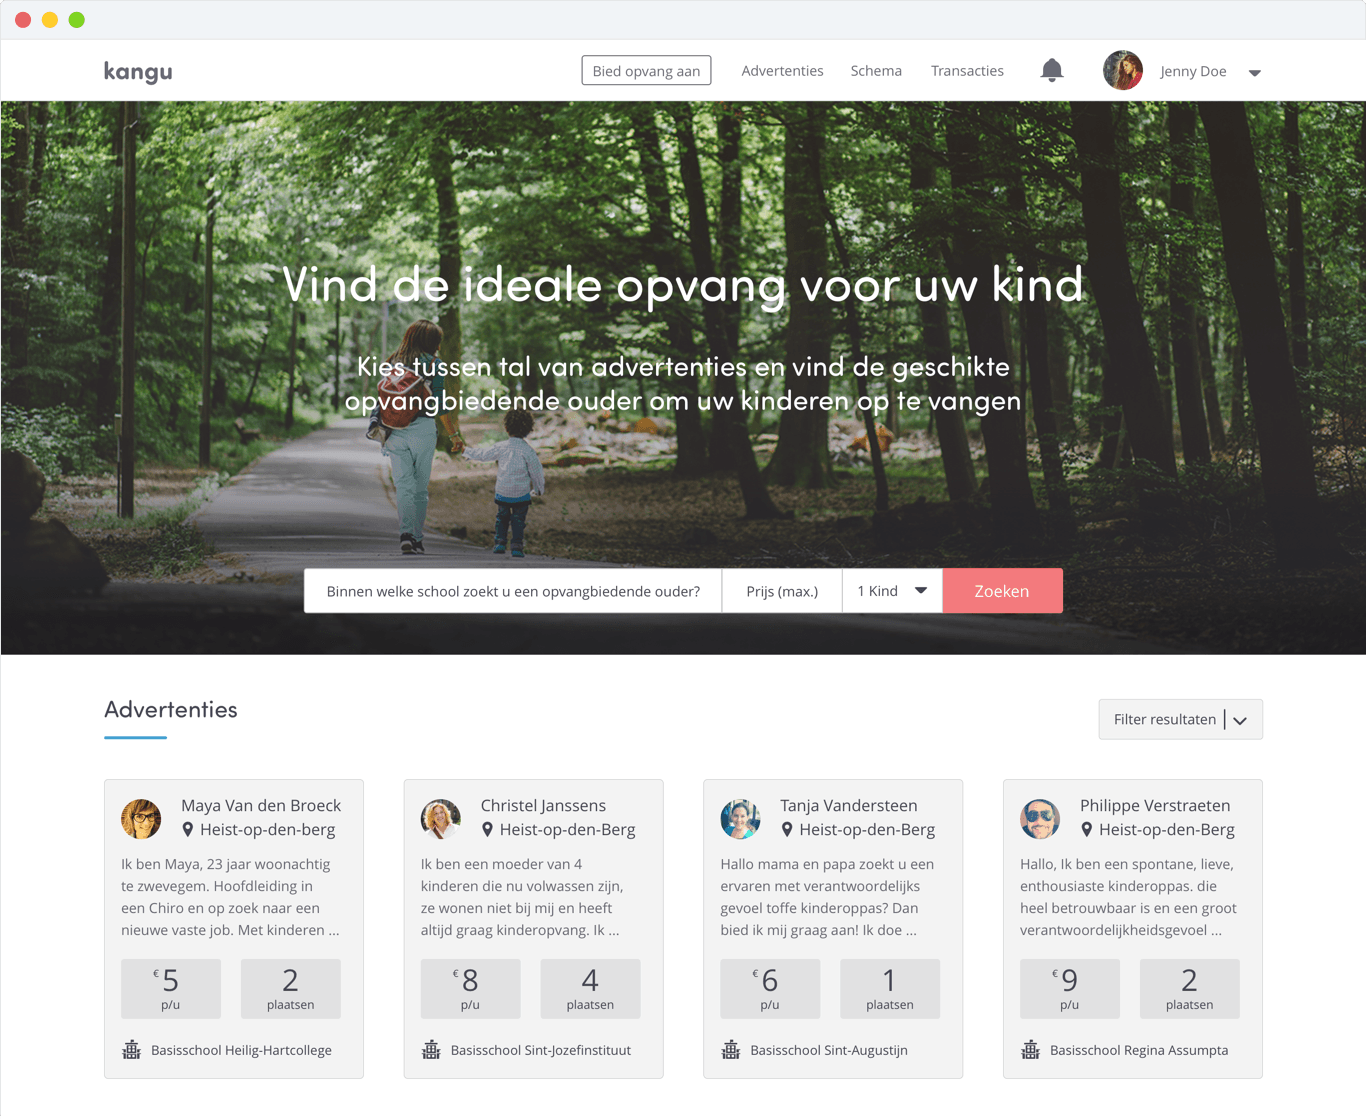
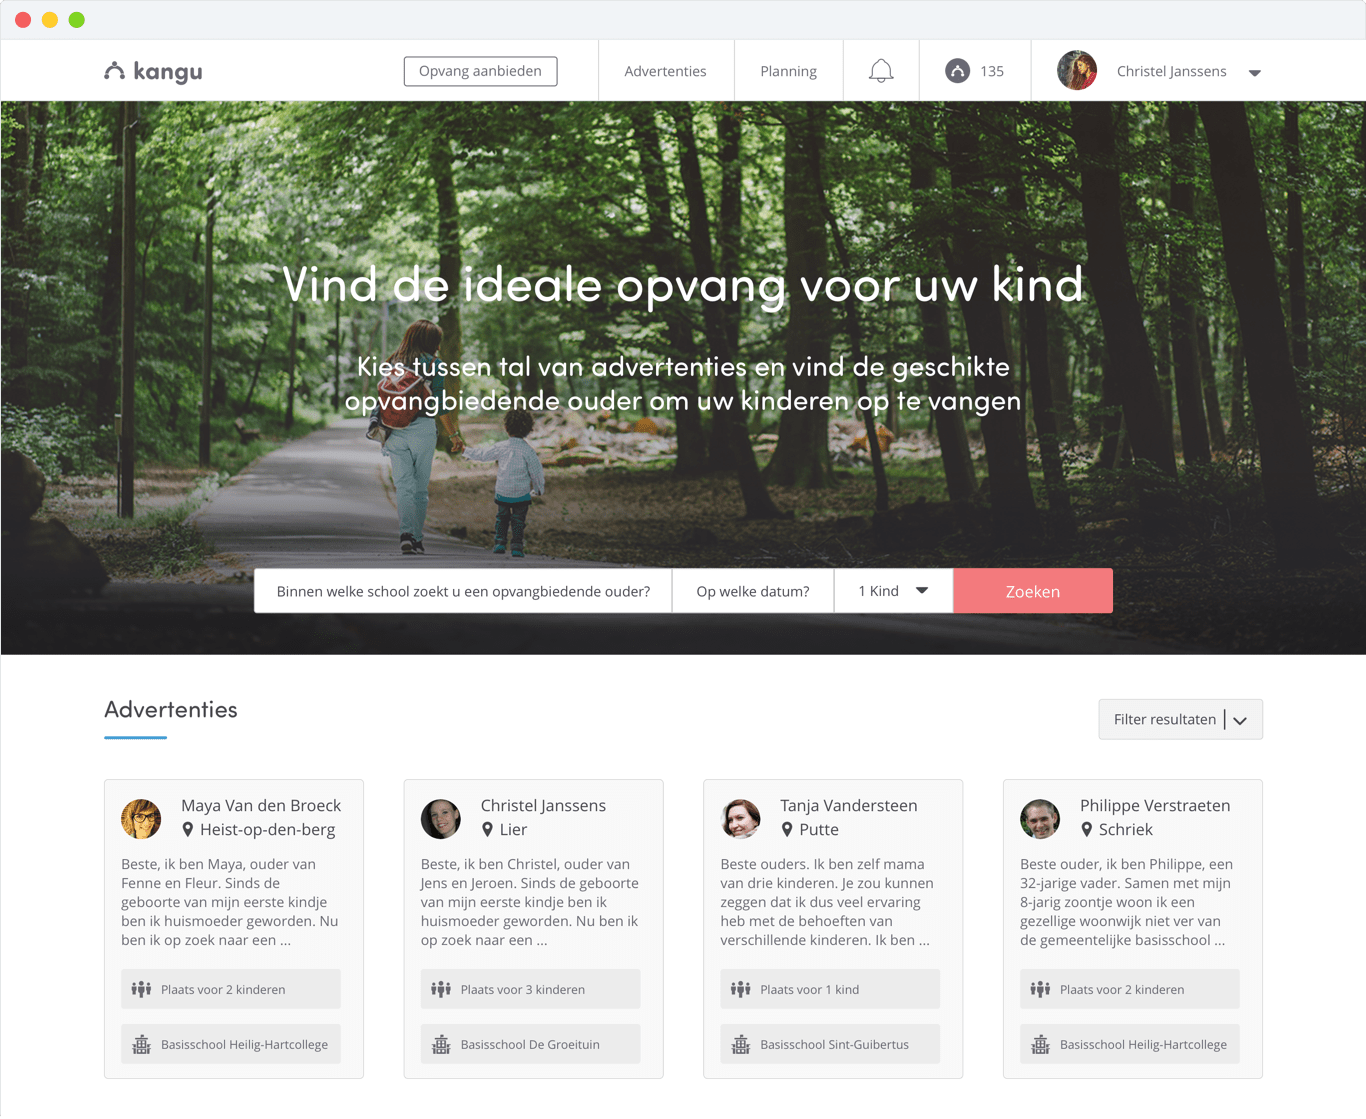
Integration new assets & styling changes
- Added new assets for the logotype and background pattern in order to remove some cross-browser problems
- Updated all of the browser-advert previews in the promotional page to correspond with the new changes
- Integrated the new logotype assets in the navigation
- Integrated the new background-pattern in all corresponding pages
- Made small styling changes to several files

diff --git a/resources/scss/components/_navigation.scss b/resources/scss/components/_navigation.scss
@@ -51,17 +51,14 @@
 	}
 
 	.top-bar-title {
-		margin-right: 0;
 		text-align: center;
+		padding: 16px 0 16px 0;
+		margin-right: 0;
 	}
 
-	.top-bar-title a {
-		vertical-align: middle;
-	}
-
-	.top-bar-title a:before {
-		@include font($header-font-family, regular, bold, 20, 20, rgba($text-dark-grey, 0.8));
-		margin: 0 10px 0 0;
+	.top-bar-title img {
+		width: 100px;
+		height: 25.5px;
 	}
 }
 
@@ -253,27 +250,17 @@
 
 .top-bar {
 	@include show-for(large);
-	//min-height: 60px;
 	background-color: $white;
-	//padding: 15px 0 15px 0;
 	padding: 0;
 
 	.top-bar-title {
-		//margin-top: 3px;
 		padding: 16px 0 16px 0;
 		margin-right: 0;
 	}
 
-	.top-bar-title a {
-		@include font($header-font-family, regular, bold, 25, 25, rgba($text-dark-grey, 0.8));
-		text-decoration: none;
-		vertical-align: bottom;
-	}
-
-	.top-bar-title a:before {
-		@include font($header-font-family, regular, bold, 20, 20, rgba($text-dark-grey, 0.8));
-		vertical-align: middle;
-		margin-right: 10px;
+	.top-bar-title img {
+		width: 100px;
+		height: 25.5px;
 	}
 }
 

diff --git a/resources/scss/pages/_promotional.scss b/resources/scss/pages/_promotional.scss
@@ -25,13 +25,27 @@
 	@include grid-row;
 	margin-top: 40px;
 
+	.header-logotype {
+		width: 125px;
+		height: 31.875px;
+
+		@include breakpoint(small) {
+			margin-top: 3px;
+		}
+
+		@include breakpoint(large) {
+			margin-top: 0;
+		}
+	}
+
+
 	h2 {
 		@include breakpoint(small) {
-			@include font($header-font-family, regular, bold, 28, 34, $text-white);
+			@include font($header-font-family, regular, bold, 28, 28, $text-white);
 		}
 
 		@include breakpoint(medium) {
-			@include font($header-font-family, regular, bold, 34, 32, $text-white);
+			@include font($header-font-family, regular, bold, 34, 34, $text-white);
 		}
 	}
 
@@ -198,7 +212,7 @@
 .beta-registration-gradient {
 	min-width: 100%;
 	max-width: 100%;
-	background: linear-gradient(-225deg, #57B9F6 0%, $dark-blue 100%);
+	background-color: $dark-blue;
 	padding: 90px 0 90px 0;
 	display: flex;
 	justify-content: center;

diff --git a/public/index.html b/public/index.html
@@ -63,7 +63,7 @@
 
             <header class="header">
                 <div class="small-12 columns">
-                    <h2 class="small-7 medium-9 large-10 columns">kangu</h2>
+                    <h2 class="small-7 medium-9 large-10 columns"><img class="header-logotype" src="assets/components/kangu-logotype-white.svg"></h2>
                     <a class="small-5 medium-3 large-2 columns register-button" href="#beta-registration">Registreren</a>
                 </div>
 

diff --git a/resources/scss/pages/_advert-detail.scss b/resources/scss/pages/_advert-detail.scss
@@ -30,7 +30,7 @@ body {
 // Styling of the detail and header container
 
 .advert-detail-header-container {
-	background: url(../assets/index/pattern-tile-alt.svg) repeat;
+	background: url(../assets/components/pattern-tile-alt.png) repeat;
 	min-width: 100%;
 	height: auto;
 	padding: 80px 0 80px 0;

diff --git a/resources/scss/pages/_advert-create-confirmation.scss b/resources/scss/pages/_advert-create-confirmation.scss
@@ -11,7 +11,7 @@
 		min-width: 100%;
 		min-height: 50%;
 		display: flex;
-		background: linear-gradient(-225deg, #57B9F6 0%, $dark-blue 100%);
+		background: url(../assets/components/pattern-tile-alt.png) repeat;
 		position: absolute;
 		z-index: -1;
 	}

diff --git a/resources/scss/pages/_advert-book.scss b/resources/scss/pages/_advert-book.scss
@@ -38,7 +38,7 @@
 	min-width: 100%;
 	min-height: 50%;
 	display: flex;
-	background: url(../assets/index/pattern-tile-alt.svg) repeat;
+	background: url(../assets/components/pattern-tile-alt.png) repeat;
 	left: 0;
 	top: 59px;
 	position: absolute;

diff --git a/resources/scss/pages/_advert-create.scss b/resources/scss/pages/_advert-create.scss
@@ -9,7 +9,7 @@
 	min-width: 100%;
 	min-height: 100%;
 	display: flex;
-	background: url(../assets/index/pattern-tile-alt.svg) repeat;
+	background: url(../assets/components/pattern-tile-alt.png) repeat;
 	left: 0;
 	top: 0;
 	position: absolute;

diff --git a/resources/scss/pages/_registration.scss b/resources/scss/pages/_registration.scss
@@ -4,7 +4,7 @@
 	min-width: 100%;
 	min-height: 50%;
 	display: flex;
-	background: url(../assets/index/pattern-tile-alt.svg) repeat;
+	background: url(../assets/components/pattern-tile-alt.png) repeat;
 	left: 0;
 	top: 0;
 	position: absolute;

diff --git a/public/php-includes/navigation.php b/public/php-includes/navigation.php
@@ -44,7 +44,7 @@
 
 <div class="top-bar-mobile">
 	<span id="top-bar-mobile-menu-button" data-icon="j"></span>
-	<span class="top-bar-title"><a href="../pages/advert-overview.php" data-icon="A">kangu</a></span>
+	<span class="top-bar-title"><a href="../pages/advert-overview.php"><img src="../assets/components/kangu-logotype-grey.svg"></a></span>
 	<span data-icon="f"></span>
 </div>
 
@@ -52,7 +52,7 @@
 	<div class="row">
 		<div class="large-12 small-centered columns">
 			<div class="top-bar" id="top-bar-menu">
-				<div class="top-bar-title show-for-medium"><a href="../pages/advert-overview.php" data-icon="A">kangu</a></div>
+				<div class="top-bar-title show-for-medium"><a href="../pages/advert-overview.php"><img src="../assets/components/kangu-logotype-grey.svg"></a></div>
 
 				<div class="top-bar-right">
 					<ul class="vertical medium-horizontal menu">
